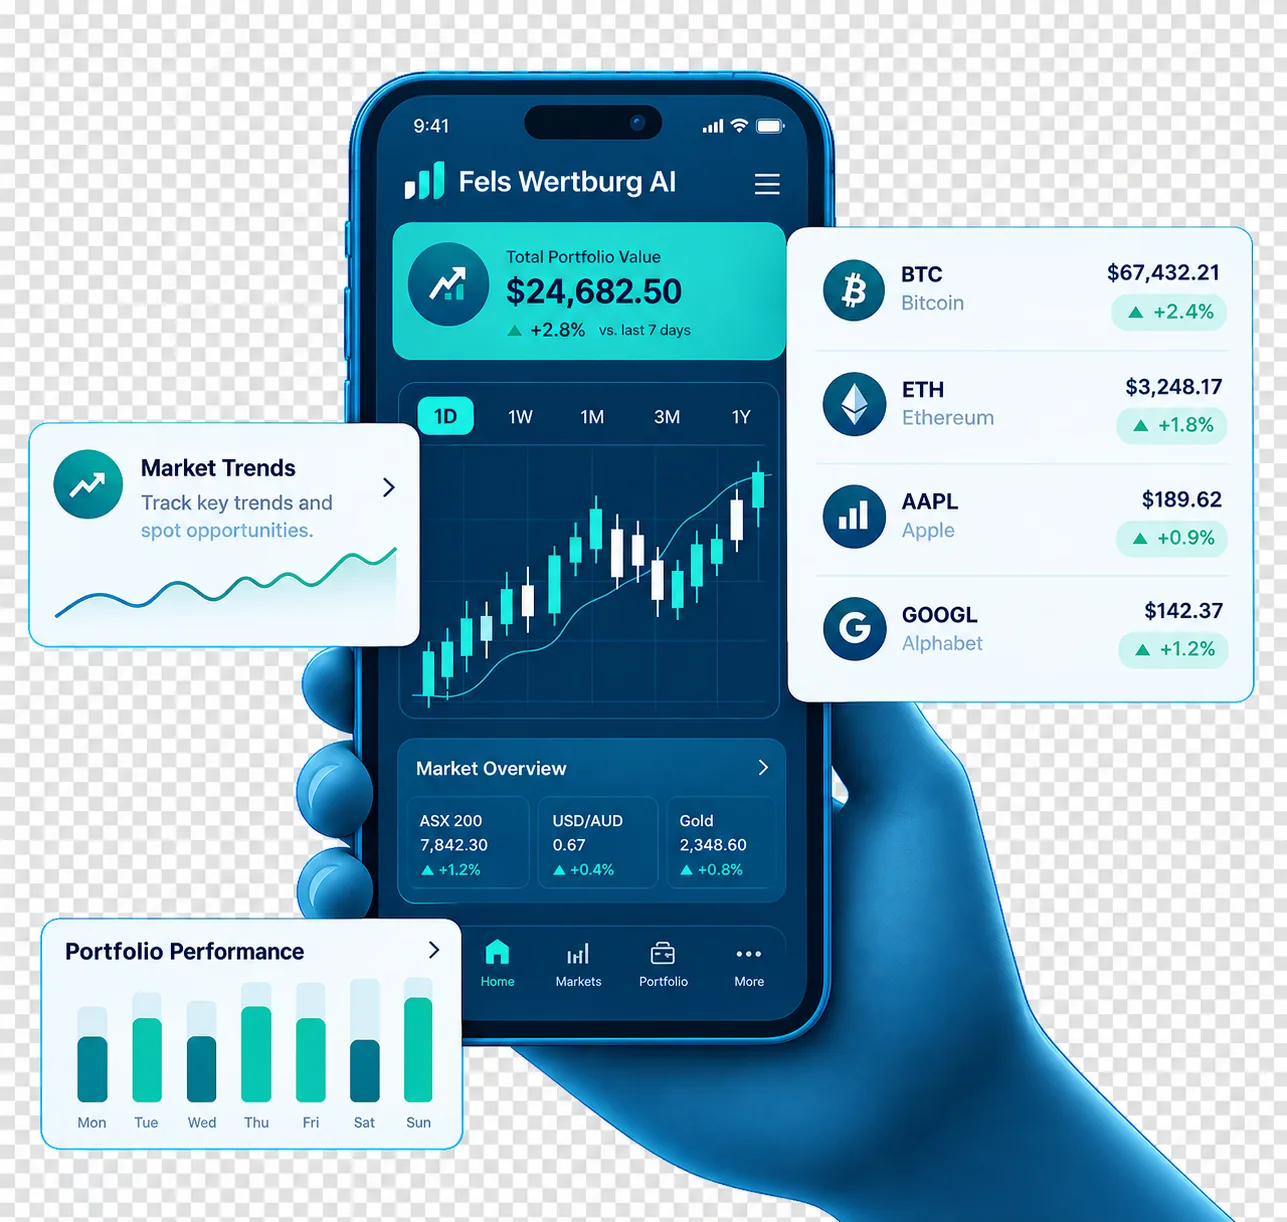
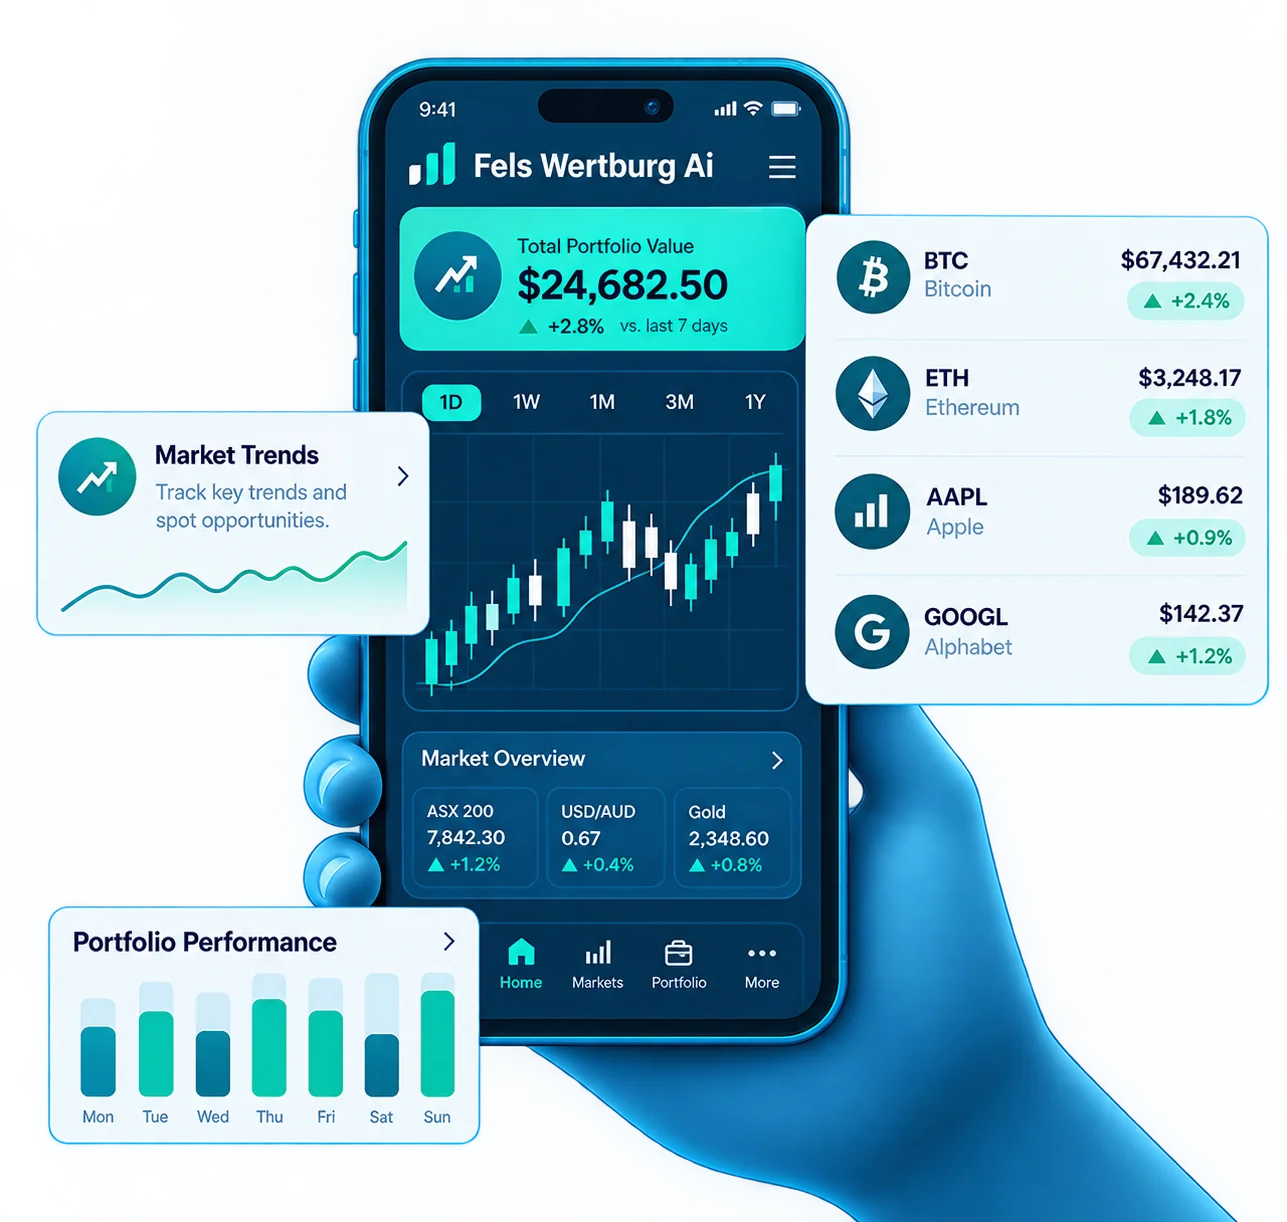
Replace homepage platform image with ThePlatformAi (webp) + hero H1 sizing

diff --git a/src/components/Hero.jsx b/src/components/Hero.jsx
@@ -41,7 +41,7 @@ export default function Hero() {
             Smart Tools for Modern Markets
           </p>
 
-          <h1 className="mt-6 text-[34px] font-extrabold leading-[1.08] tracking-tight text-primary">
+          <h1 className="mt-6 text-[clamp(2.125rem,5.5vw,3.5rem)] font-extrabold leading-[1.08] tracking-tight text-primary">
             Make More Informed{' '}
             <span className="relative inline-block">
               <span className="bg-gradient-to-r from-secondary to-accent bg-clip-text text-transparent">
